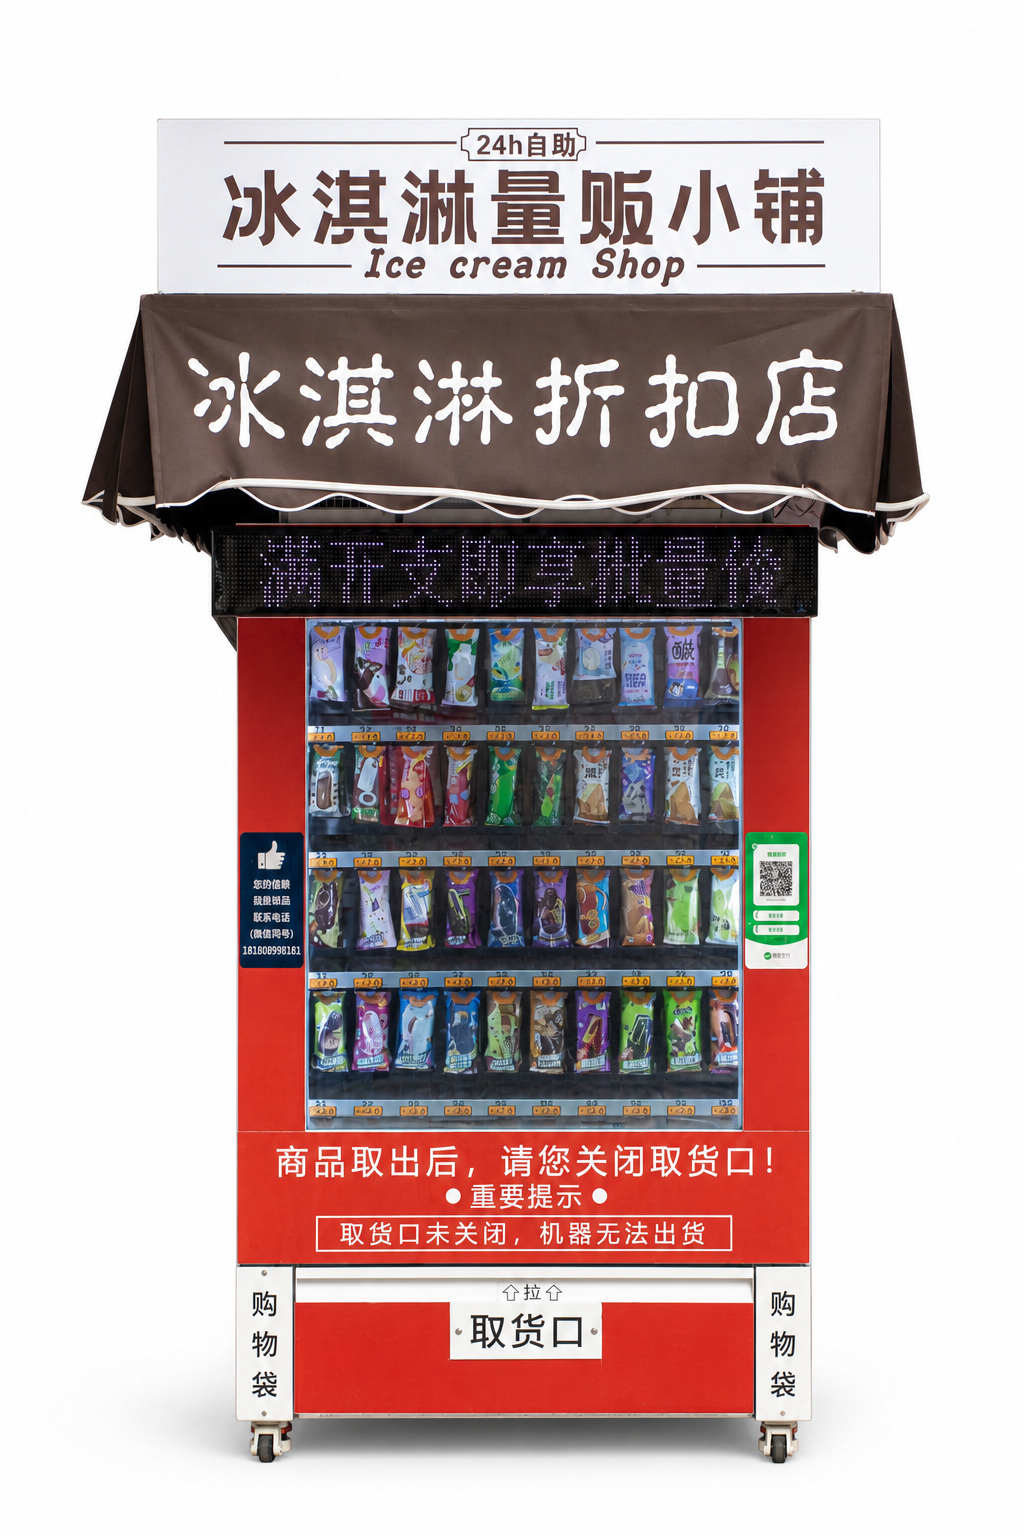
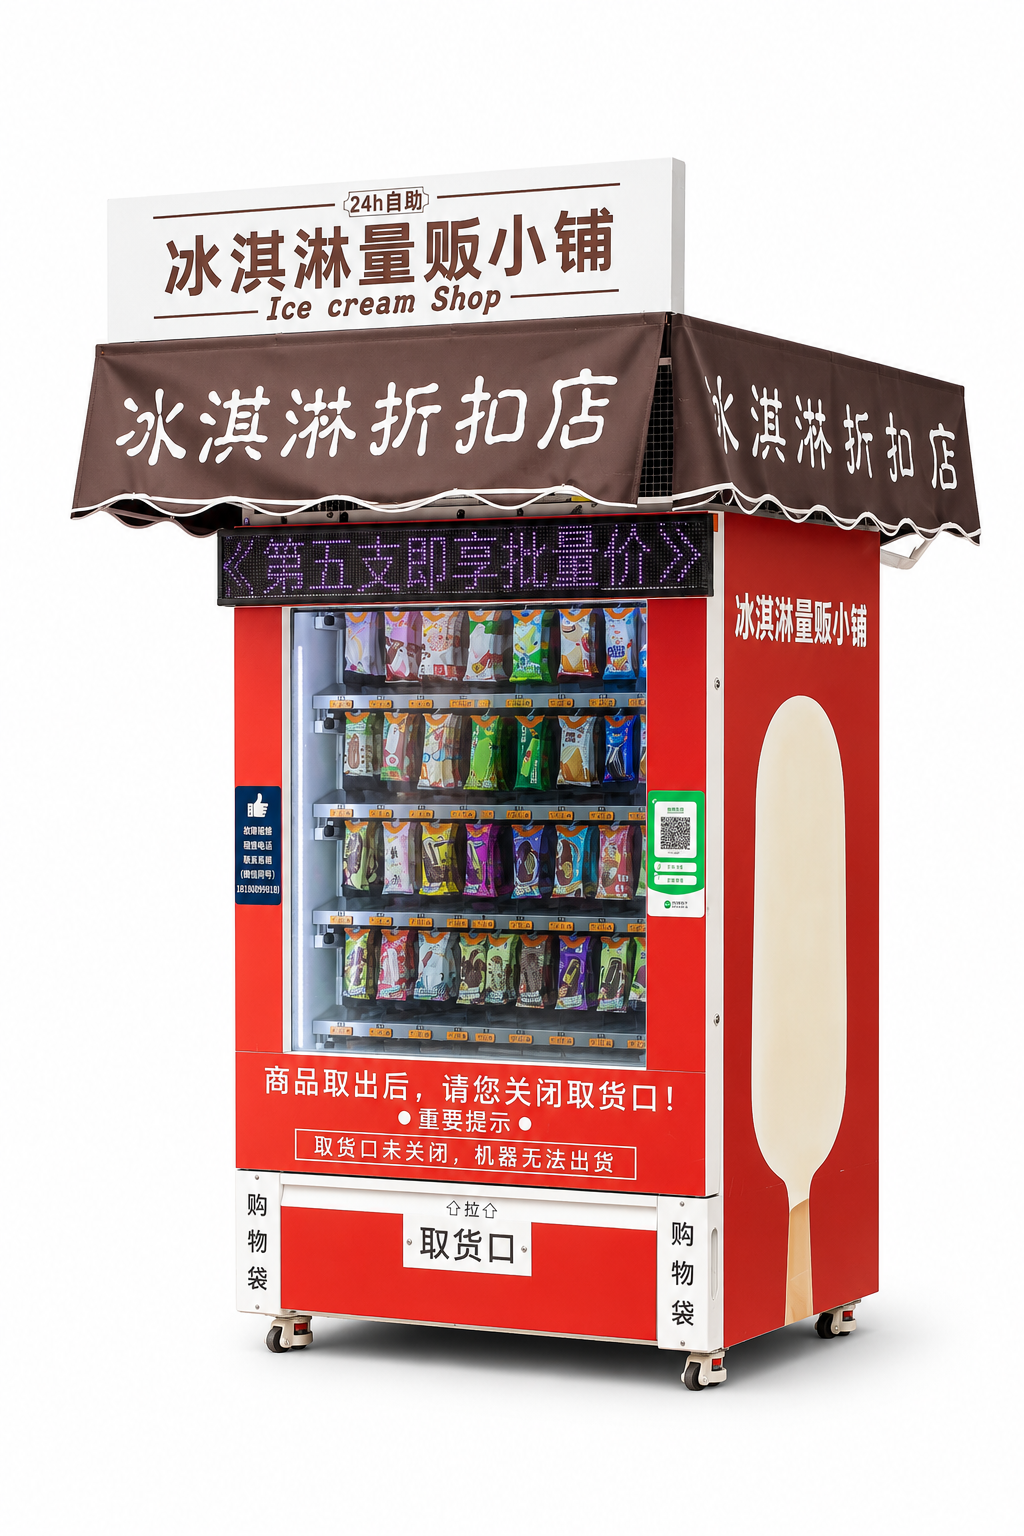
纠正首页与360产品图片顺序
将首页主图改为桌面 frostvend图片/1.png，并将 360 产品展示更新为桌面 1-5 图片顺序。

diff --git a/index.html b/index.html
@@ -88,7 +88,7 @@
             </div>
             <div class="hero-image">
                 <div class="hero-image-wrapper">
-                    <img src="images/product/1.png?v=20260714" alt="FrostVend 挂式雪糕自动售货机">
+                    <img src="images/product/1.png?v=20260715" alt="FrostVend 挂式雪糕自动售货机">
                 </div>
             </div>
         </div>
@@ -453,21 +453,24 @@
                 <div class="viewer-360">
                     <div class="viewer-360-container auto-rotate" id="viewer360">
                         <div class="viewer-360-face">
-                            <img src="images/product/1.png?v=20260714" alt="FrostVend 挂式雪糕自动售货机" class="viewer-360-image" id="mainImage">
+                            <img src="images/product/1.png?v=20260715" alt="FrostVend 挂式雪糕自动售货机" class="viewer-360-image" id="mainImage">
                         </div>
                     </div>
                     <div class="viewer-360-angles">
                         <button class="viewer-360-angle-btn active" data-angle="0">
-                            <img src="images/product/1.png?v=20260714" alt="正面">
+                            <img src="images/product/1.png?v=20260715" alt="正面">
                         </button>
                         <button class="viewer-360-angle-btn" data-angle="1">
-                            <img src="images/product/2.png?v=20260714" alt="侧面1">
+                            <img src="images/product/2.png?v=20260715" alt="侧面1">
                         </button>
                         <button class="viewer-360-angle-btn" data-angle="2">
-                            <img src="images/product/3.png?v=20260714" alt="侧面2">
+                            <img src="images/product/3.png?v=20260715" alt="侧面2">
                         </button>
                         <button class="viewer-360-angle-btn" data-angle="3">
-                            <img src="images/product/4.png?v=20260714" alt="侧面3">
+                            <img src="images/product/4.png?v=20260715" alt="侧面3">
+                        </button>
+                        <button class="viewer-360-angle-btn" data-angle="4">
+                            <img src="images/product/5.png?v=20260715" alt="侧面4">
                         </button>
                     </div>
                     <div class="viewer-360-controls">

diff --git a/js/script.js b/js/script.js
@@ -105,10 +105,11 @@ console.log('雪糕自动售货机官网已加载');
 
     // 图片数组
     const images = [
-        'images/product/1.png',
-        'images/product/2.png',
-        'images/product/3.png',
-        'images/product/4.png'
+        'images/product/1.png?v=20260715',
+        'images/product/2.png?v=20260715',
+        'images/product/3.png?v=20260715',
+        'images/product/4.png?v=20260715',
+        'images/product/5.png?v=20260715'
     ];
 
     let isDragging = false;
